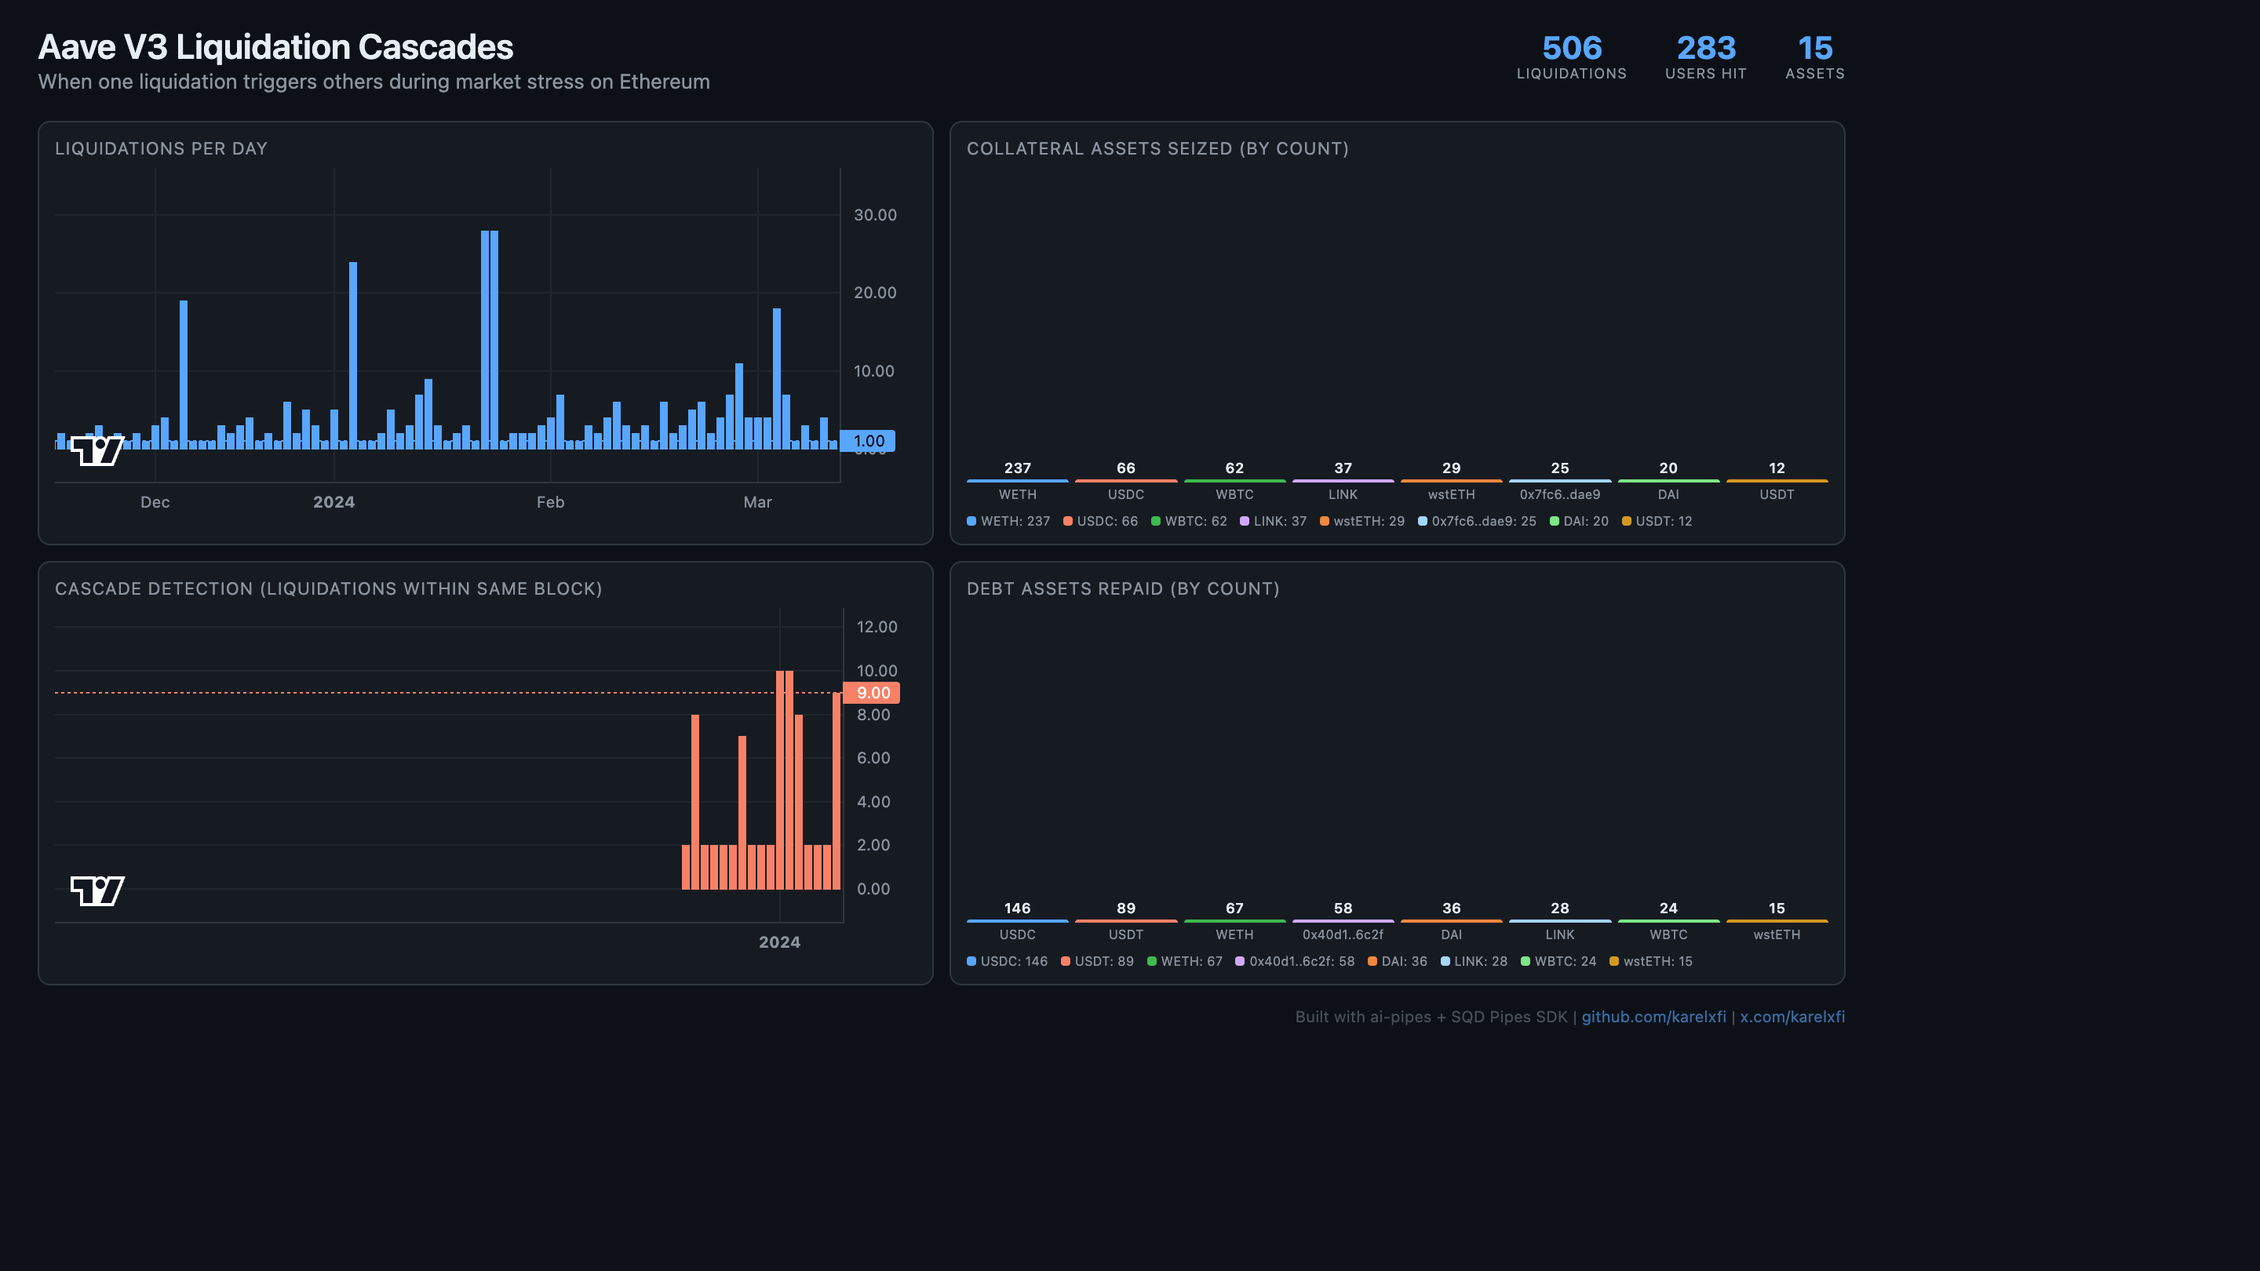
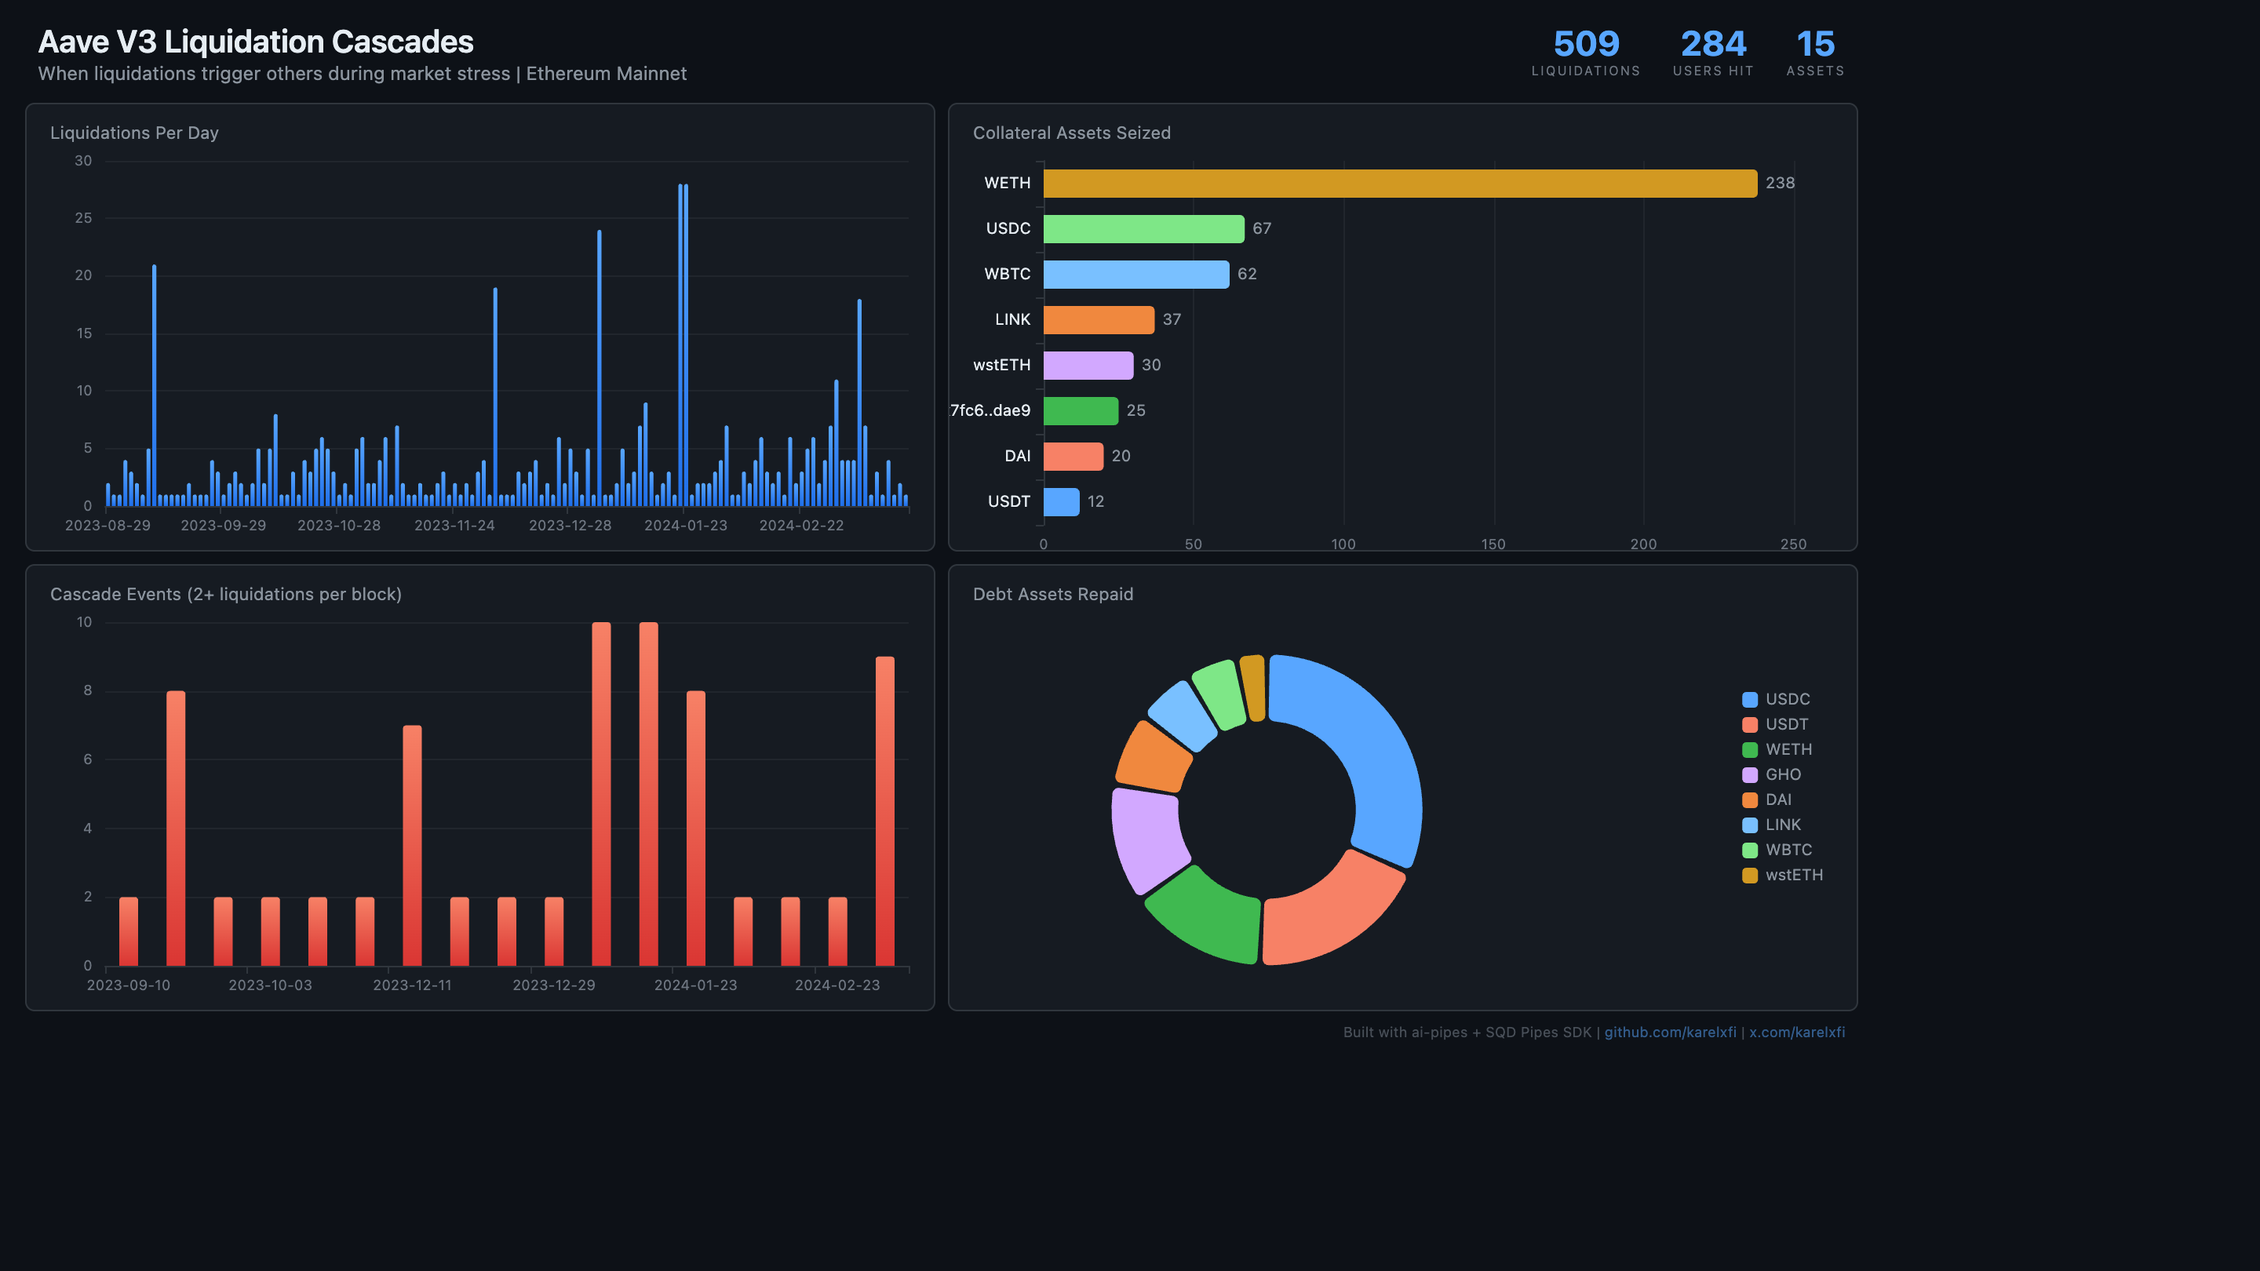
feat(evm): switch to Apache ECharts — proper BI dashboard with gradient bars, horizontal bars, donut chart

diff --git a/evm/001-aave-v3/dashboard/index.html b/evm/001-aave-v3/dashboard/index.html
@@ -4,7 +4,7 @@
   <meta charset="UTF-8">
   <meta name="viewport" content="width=1200">
   <title>Aave V3 Liquidation Cascades</title>
-  <script src="https://unpkg.com/lightweight-charts@5.1.0/dist/lightweight-charts.standalone.production.js"></script>
+  <script src="https://cdn.jsdelivr.net/npm/echarts@5.5.1/dist/echarts.min.js"></script>
   <style>
     * { margin: 0; padding: 0; box-sizing: border-box; }
     body {
@@ -15,105 +15,73 @@
       height: 675px;
       overflow: hidden;
     }
-    .header { padding: 16px 24px 8px; display: flex; justify-content: space-between; align-items: baseline; }
-    .header-left {}
-    .header h1 { font-size: 22px; font-weight: 600; color: #e6edf3; }
-    .header .angle { font-size: 13px; color: #8b949e; margin-top: 2px; }
-    .stats { display: flex; gap: 24px; align-items: baseline; }
+    .header {
+      padding: 14px 24px 6px;
+      display: flex;
+      justify-content: space-between;
+      align-items: flex-start;
+    }
+    .header h1 { font-size: 20px; font-weight: 600; color: #e6edf3; }
+    .header .angle { font-size: 12px; color: #8b949e; margin-top: 2px; }
+    .stats { display: flex; gap: 20px; }
     .stat { text-align: center; }
-    .stat-value { font-size: 20px; font-weight: 700; color: #58a6ff; }
-    .stat-label { font-size: 9px; color: #8b949e; text-transform: uppercase; letter-spacing: 0.5px; }
-    .chart-grid {
+    .stat-value { font-size: 22px; font-weight: 700; color: #58a6ff; line-height: 1.2; }
+    .stat-label { font-size: 8px; color: #6e7681; text-transform: uppercase; letter-spacing: 1px; }
+    .grid {
       display: grid;
       grid-template-columns: 1fr 1fr;
       grid-template-rows: 1fr 1fr;
-      gap: 10px;
-      padding: 10px 24px;
-      height: calc(100% - 76px - 28px);
+      gap: 8px;
+      padding: 6px 16px;
+      height: calc(100% - 62px - 22px);
     }
-    .chart-container {
+    .panel {
       background: #161b22;
       border: 1px solid #30363d;
-      border-radius: 8px;
-      padding: 10px;
+      border-radius: 6px;
       position: relative;
-      overflow: hidden;
     }
-    .chart-title {
-      font-size: 11px;
-      color: #8b949e;
-      margin-bottom: 6px;
-      text-transform: uppercase;
-      letter-spacing: 0.5px;
+    .chart { width: 100%; height: 100%; }
+    .footer {
+      padding: 2px 24px 4px;
+      text-align: right;
+      font-size: 9px;
+      color: #484f58;
     }
-    .chart { width: 100%; height: calc(100% - 22px); }
-    .bar-panel { display: flex; flex-direction: column; }
-    .bar-chart-area { flex: 1; display: flex; align-items: flex-end; gap: 4px; padding: 4px 0; }
-    .bar-item { display: flex; flex-direction: column; align-items: center; flex: 1; min-width: 0; }
-    .bar { border-radius: 3px 3px 0 0; min-height: 2px; width: 100%; }
-    .bar-label { font-size: 8px; color: #8b949e; margin-top: 3px; text-align: center; overflow: hidden; text-overflow: ellipsis; white-space: nowrap; width: 100%; }
-    .bar-value { font-size: 9px; color: #e6edf3; margin-bottom: 2px; font-weight: 600; }
-    .legend { display: flex; flex-wrap: wrap; gap: 3px 8px; margin-top: 4px; }
-    .legend-item { display: flex; align-items: center; gap: 3px; font-size: 8px; color: #8b949e; }
-    .legend-dot { width: 6px; height: 6px; border-radius: 2px; flex-shrink: 0; }
-    .footer { padding: 4px 24px; text-align: right; font-size: 10px; color: #484f58; }
-    .footer a { color: #58a6ff; text-decoration: none; opacity: 0.6; }
+    .footer a { color: #58a6ff; text-decoration: none; opacity: 0.5; }
     .footer a:hover { opacity: 1; }
   </style>
 </head>
 <body>
   <div class="header">
-    <div class="header-left">
+    <div>
       <h1>Aave V3 Liquidation Cascades</h1>
-      <div class="angle">When one liquidation triggers others during market stress on Ethereum</div>
+      <div class="angle">When liquidations trigger others during market stress | Ethereum Mainnet</div>
     </div>
     <div class="stats" id="stats"></div>
   </div>
-  <div class="chart-grid">
-    <div class="chart-container">
-      <div class="chart-title">Liquidations Per Day</div>
-      <div class="chart" id="chart1"></div>
-    </div>
-    <div class="chart-container bar-panel">
-      <div class="chart-title">Collateral Assets Seized (by count)</div>
-      <div class="bar-chart-area" id="chart2"></div>
-      <div class="legend" id="legend2"></div>
-    </div>
-    <div class="chart-container">
-      <div class="chart-title">Cascade Detection (liquidations within same block)</div>
-      <div class="chart" id="chart3"></div>
-    </div>
-    <div class="chart-container bar-panel">
-      <div class="chart-title">Debt Assets Repaid (by count)</div>
-      <div class="bar-chart-area" id="chart4"></div>
-      <div class="legend" id="legend4"></div>
-    </div>
+  <div class="grid">
+    <div class="panel"><div class="chart" id="chart1"></div></div>
+    <div class="panel"><div class="chart" id="chart2"></div></div>
+    <div class="panel"><div class="chart" id="chart3"></div></div>
+    <div class="panel"><div class="chart" id="chart4"></div></div>
   </div>
-  <div class="footer">Built with ai-pipes + SQD Pipes SDK | <a href="https://github.com/karelxfi">github.com/karelxfi</a> | <a href="https://x.com/karelxfi">x.com/karelxfi</a></div>
+  <div class="footer">
+    Built with ai-pipes + SQD Pipes SDK |
+    <a href="https://github.com/karelxfi">github.com/karelxfi</a> |
+    <a href="https://x.com/karelxfi">x.com/karelxfi</a>
+  </div>
 
   <script>
-    var CLICKHOUSE_URL = 'http://localhost:8123';
+    var CH = 'http://localhost:8123';
     var DB = 'aave_v3_pool';
-    var TABLE = 'aave_v_3_pool_liquidation_call';
+    var T = 'aave_v_3_pool_liquidation_call';
 
-    function query(sql) {
-      var url = CLICKHOUSE_URL + '/?database=' + DB + '&user=default&password=password&query=' + encodeURIComponent(sql + ' FORMAT JSON');
-      return fetch(url).then(function(r) { return r.json(); }).then(function(j) { return j.data; });
+    function q(sql) {
+      return fetch(CH + '/?database=' + DB + '&user=default&password=password&query=' + encodeURIComponent(sql + ' FORMAT JSON'))
+        .then(function(r) { return r.json(); })
+        .then(function(j) { return j.data; });
     }
-
-    function makeChart(id) {
-      var c = document.getElementById(id);
-      c.textContent = '';
-      return LightweightCharts.createChart(c, {
-        layout: { background: { type: 'solid', color: '#161b22' }, textColor: '#8b949e', fontSize: 10 },
-        grid: { vertLines: { color: '#21262d' }, horzLines: { color: '#21262d' } },
-        width: c.clientWidth, height: c.clientHeight,
-        timeScale: { borderColor: '#30363d' },
-        rightPriceScale: { borderColor: '#30363d' },
-      });
-    }
-
-    var COLORS = ['#58a6ff', '#f78166', '#3fb950', '#d2a8ff', '#f0883e', '#a5d6ff', '#7ee787', '#d29922', '#ff7b72', '#79c0ff'];
 
     var TOKENS = {
       '0xc02aaa39b223fe8d0a0e5c4f27ead9083c756cc2': 'WETH',
@@ -128,60 +96,89 @@
       '0xae7ab96520de3a18e5e111b5eaab095312d7fe84': 'stETH',
       '0x5f98805a4e8be255a32880fdec7f6728c6568ba0': 'LUSD',
       '0x853d955acef822db058eb8505911ed77f175b99e': 'FRAX',
+      '0x40d16fc0246ad3160ccc09b8d0d3a2cd28ae6c2f': 'GHO',
     };
+    function tok(a) { return TOKENS[a.toLowerCase()] || (a.slice(0,6) + '..' + a.slice(-4)); }
 
-    function tok(addr) { return TOKENS[addr.toLowerCase()] || (addr.slice(0,6) + '..' + addr.slice(-4)); }
+    var PALETTE = ['#58a6ff','#f78166','#3fb950','#d2a8ff','#f0883e','#79c0ff','#7ee787','#d29922','#ff7b72','#a5d6ff'];
 
-    function bars(cId, lId, data, labFn, valFn, fmtFn) {
-      var cont = document.getElementById(cId);
-      var leg = document.getElementById(lId);
-      var mx = Math.max.apply(null, data.map(valFn));
-      data.forEach(function(d, i) {
-        var v = valFn(d), color = COLORS[i % COLORS.length], pct = mx > 0 ? (v/mx)*100 : 0, lab = labFn(d);
-        var item = document.createElement('div'); item.className = 'bar-item';
-        var ve = document.createElement('div'); ve.className = 'bar-value'; ve.textContent = fmtFn(v);
-        var be = document.createElement('div'); be.className = 'bar'; be.style.height = Math.max(pct,3)+'%'; be.style.background = color;
-        var le = document.createElement('div'); le.className = 'bar-label'; le.title = lab; le.textContent = lab;
-        item.appendChild(ve); item.appendChild(be); item.appendChild(le); cont.appendChild(item);
-        var li = document.createElement('div'); li.className = 'legend-item';
-        var dot = document.createElement('div'); dot.className = 'legend-dot'; dot.style.background = color;
-        var tx = document.createElement('span'); tx.textContent = lab + ': ' + fmtFn(v);
-        li.appendChild(dot); li.appendChild(tx); leg.appendChild(li);
-      });
+    function darkOpts(title) {
+      return {
+        backgroundColor: 'transparent',
+        title: { text: title, textStyle: { color: '#8b949e', fontSize: 11, fontWeight: 'normal' }, left: 10, top: 8 },
+        textStyle: { color: '#8b949e', fontFamily: '-apple-system, BlinkMacSystemFont, "Segoe UI", Helvetica, Arial' },
+        tooltip: { backgroundColor: '#1c2128', borderColor: '#30363d', textStyle: { color: '#e6edf3', fontSize: 11 } },
+        grid: { left: 50, right: 16, top: 36, bottom: 28 },
+      };
     }
 
     async function init() {
-      // Summary stats
-      var totals = await query('SELECT count() as total, uniq(user) as users, uniq(collateral_asset) as assets, min(toDate(timestamp)) as from_date, max(toDate(timestamp)) as to_date FROM ' + TABLE);
-      var t = totals[0];
+      // Stats
+      var totals = await q('SELECT count() as total, uniq(user) as users, uniq(collateral_asset) as assets FROM ' + T);
+      var st = totals[0];
       var statsEl = document.getElementById('stats');
-      [{v: t.total, l: 'Liquidations'}, {v: t.users, l: 'Users Hit'}, {v: t.assets, l: 'Assets'}].forEach(function(s) {
+      [{v: st.total, l: 'Liquidations'}, {v: st.users, l: 'Users Hit'}, {v: st.assets, l: 'Assets'}].forEach(function(s) {
         var d = document.createElement('div'); d.className = 'stat';
         var vl = document.createElement('div'); vl.className = 'stat-value'; vl.textContent = s.v;
         var lb = document.createElement('div'); lb.className = 'stat-label'; lb.textContent = s.l;
         d.appendChild(vl); d.appendChild(lb); statsEl.appendChild(d);
       });
 
-      // Chart 1: Liquidations per day — histogram (correct for count data)
-      var daily = await query('SELECT toDate(timestamp) as day, count() as n FROM ' + TABLE + ' GROUP BY day ORDER BY day');
-      var ch1 = makeChart('chart1');
-      var s1 = ch1.addSeries(LightweightCharts.HistogramSeries, { color: '#58a6ff' });
-      s1.setData(daily.map(function(d) { return { time: d.day, value: parseInt(d.n) }; }));
+      // Chart 1: Liquidations per day — bar chart
+      var daily = await q('SELECT toDate(timestamp) as day, count() as n FROM ' + T + ' GROUP BY day ORDER BY day');
+      var ch1 = echarts.init(document.getElementById('chart1'));
+      ch1.setOption(Object.assign(darkOpts('Liquidations Per Day'), {
+        xAxis: { type: 'category', data: daily.map(function(d){return d.day;}), axisLabel: { color: '#6e7681', fontSize: 9 }, axisLine: { lineStyle: { color: '#30363d' } }, splitLine: { show: false } },
+        yAxis: { type: 'value', axisLabel: { color: '#6e7681', fontSize: 9 }, axisLine: { show: false }, splitLine: { lineStyle: { color: '#21262d' } } },
+        series: [{ type: 'bar', data: daily.map(function(d){return parseInt(d.n);}), itemStyle: { color: new echarts.graphic.LinearGradient(0,0,0,1,[{offset:0,color:'#58a6ff'},{offset:1,color:'#1f6feb'}]), borderRadius: [2,2,0,0] }, barMaxWidth: 12 }],
+        tooltip: { trigger: 'axis', formatter: function(p) { return p[0].axisValue + '<br/>Liquidations: <b>' + p[0].value + '</b>'; } },
+      }));
 
-      // Chart 2: Top collateral assets by count
-      var collateral = await query('SELECT collateral_asset, count() as n FROM ' + TABLE + ' GROUP BY collateral_asset ORDER BY n DESC LIMIT 8');
-      bars('chart2', 'legend2', collateral, function(d){return tok(d.collateral_asset);}, function(d){return parseInt(d.n);}, function(n){return n.toString();});
+      // Chart 2: Top collateral assets — horizontal bar
+      var coll = await q('SELECT collateral_asset, count() as n FROM ' + T + ' GROUP BY collateral_asset ORDER BY n DESC LIMIT 8');
+      coll.reverse();
+      var ch2 = echarts.init(document.getElementById('chart2'));
+      ch2.setOption(Object.assign(darkOpts('Collateral Assets Seized'), {
+        grid: { left: 60, right: 40, top: 36, bottom: 16 },
+        xAxis: { type: 'value', axisLabel: { color: '#6e7681', fontSize: 9 }, axisLine: { show: false }, splitLine: { lineStyle: { color: '#21262d' } } },
+        yAxis: { type: 'category', data: coll.map(function(d){return tok(d.collateral_asset);}), axisLabel: { color: '#e6edf3', fontSize: 10 }, axisLine: { lineStyle: { color: '#30363d' } } },
+        series: [{ type: 'bar', data: coll.map(function(d,i){return { value: parseInt(d.n), itemStyle: { color: PALETTE[i % PALETTE.length], borderRadius: [0,3,3,0] } };}), barMaxWidth: 18, label: { show: true, position: 'right', color: '#8b949e', fontSize: 10, formatter: '{c}' } }],
+        tooltip: { trigger: 'axis', formatter: function(p) { return p[0].name + ': <b>' + p[0].value + '</b> liquidations'; } },
+      }));
 
-      // Chart 3: Cascade detection — number of liquidations per block (blocks with 2+ = cascades)
-      // Show blocks with multiple liquidations as spikes
-      var cascades = await query('SELECT toDate(timestamp) as day, countIf(block_liq_count >= 2) as cascade_blocks, sum(block_liq_count) as cascade_liqs FROM (SELECT block_number, min(timestamp) as timestamp, count() as block_liq_count FROM ' + TABLE + ' GROUP BY block_number HAVING block_liq_count >= 2) GROUP BY day ORDER BY day');
-      var ch3 = makeChart('chart3');
-      var s3 = ch3.addSeries(LightweightCharts.HistogramSeries, { color: '#f78166' });
-      s3.setData(cascades.map(function(d) { return { time: d.day, value: parseInt(d.cascade_liqs) }; }));
+      // Chart 3: Cascade detection — blocks with multiple liquidations
+      var cascades = await q("SELECT toDate(timestamp) as day, sum(block_liq_count) as cascade_liqs, countIf(block_liq_count >= 3) as severe FROM (SELECT block_number, min(timestamp) as timestamp, count() as block_liq_count FROM " + T + " GROUP BY block_number HAVING block_liq_count >= 2) GROUP BY day ORDER BY day");
+      var ch3 = echarts.init(document.getElementById('chart3'));
+      ch3.setOption(Object.assign(darkOpts('Cascade Events (2+ liquidations per block)'), {
+        xAxis: { type: 'category', data: cascades.map(function(d){return d.day;}), axisLabel: { color: '#6e7681', fontSize: 9 }, axisLine: { lineStyle: { color: '#30363d' } }, splitLine: { show: false } },
+        yAxis: { type: 'value', axisLabel: { color: '#6e7681', fontSize: 9 }, axisLine: { show: false }, splitLine: { lineStyle: { color: '#21262d' } } },
+        series: [
+          { name: 'Cascade liquidations', type: 'bar', data: cascades.map(function(d){return parseInt(d.cascade_liqs);}), itemStyle: { color: new echarts.graphic.LinearGradient(0,0,0,1,[{offset:0,color:'#f78166'},{offset:1,color:'#da3633'}]), borderRadius: [2,2,0,0] }, barMaxWidth: 12 },
+        ],
+        tooltip: { trigger: 'axis', formatter: function(p) { return p[0].axisValue + '<br/>Cascade liquidations: <b>' + p[0].value + '</b>'; } },
+      }));
 
-      // Chart 4: Debt assets repaid by count
-      var debt = await query('SELECT debt_asset, count() as n FROM ' + TABLE + ' GROUP BY debt_asset ORDER BY n DESC LIMIT 8');
-      bars('chart4', 'legend4', debt, function(d){return tok(d.debt_asset);}, function(d){return parseInt(d.n);}, function(n){return n.toString();});
+      // Chart 4: Debt assets — donut chart
+      var debt = await q('SELECT debt_asset, count() as n FROM ' + T + ' GROUP BY debt_asset ORDER BY n DESC LIMIT 8');
+      var ch4 = echarts.init(document.getElementById('chart4'));
+      ch4.setOption(Object.assign(darkOpts('Debt Assets Repaid'), {
+        grid: { left: 0, right: 0, top: 0, bottom: 0 },
+        tooltip: { trigger: 'item', formatter: '{b}: {c} ({d}%)' },
+        legend: { orient: 'vertical', right: 16, top: 'middle', textStyle: { color: '#8b949e', fontSize: 10 }, itemWidth: 10, itemHeight: 10, itemGap: 6 },
+        series: [{
+          type: 'pie',
+          radius: ['40%', '70%'],
+          center: ['35%', '55%'],
+          avoidLabelOverlap: true,
+          padAngle: 2,
+          itemStyle: { borderRadius: 4 },
+          label: { show: false },
+          emphasis: { label: { show: true, fontSize: 12, fontWeight: 'bold', color: '#e6edf3' } },
+          data: debt.map(function(d, i) {
+            return { value: parseInt(d.n), name: tok(d.debt_asset), itemStyle: { color: PALETTE[i % PALETTE.length] } };
+          }),
+        }],
+      }));
 
       window.__DASHBOARD_READY__ = true;
     }
